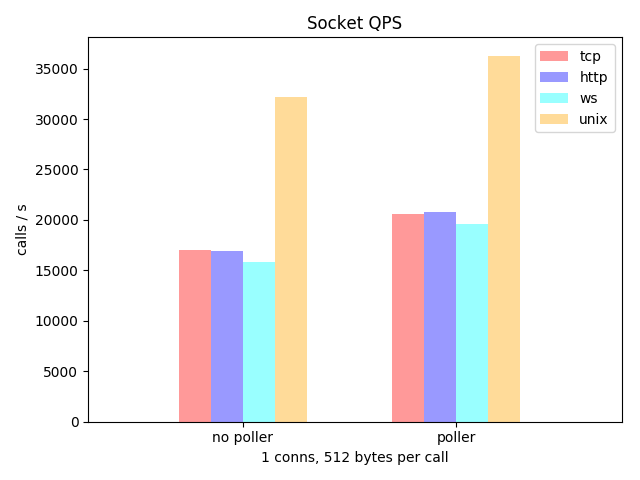
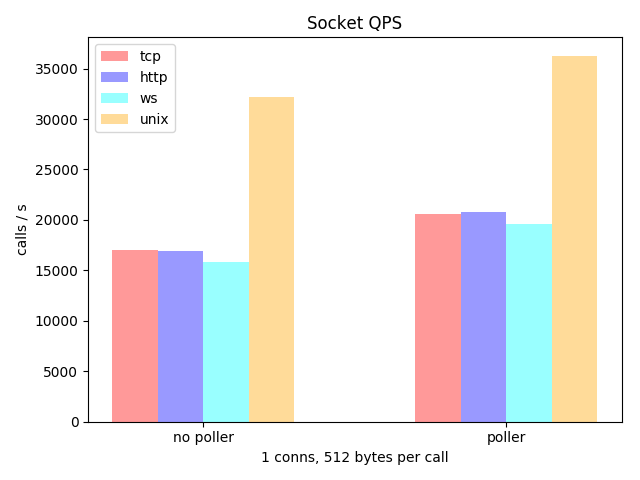
update img

Changed region(s): [[0.5938, 0.0938, 0.9688, 0.9375], [0.1562, 0.1875, 0.5, 0.9375], [0.1562, 0.0938, 0.2812, 0.2812]]

diff --git a/README.md b/README.md
@@ -16,7 +16,7 @@ Package socket implements a network socket that supports TCP, UNIX, HTTP and WS.
 
 ##### Socket QPS
 
-<img src="https://raw.githubusercontent.com/hslam/socket/master/socket-qps.png"  alt="socket" align=center>
+<img src="https://raw.githubusercontent.com/hslam/socket/master/socket-qps.png" width = "480" height = "360" alt="socket" align=center>
 
 
 ## Get started
